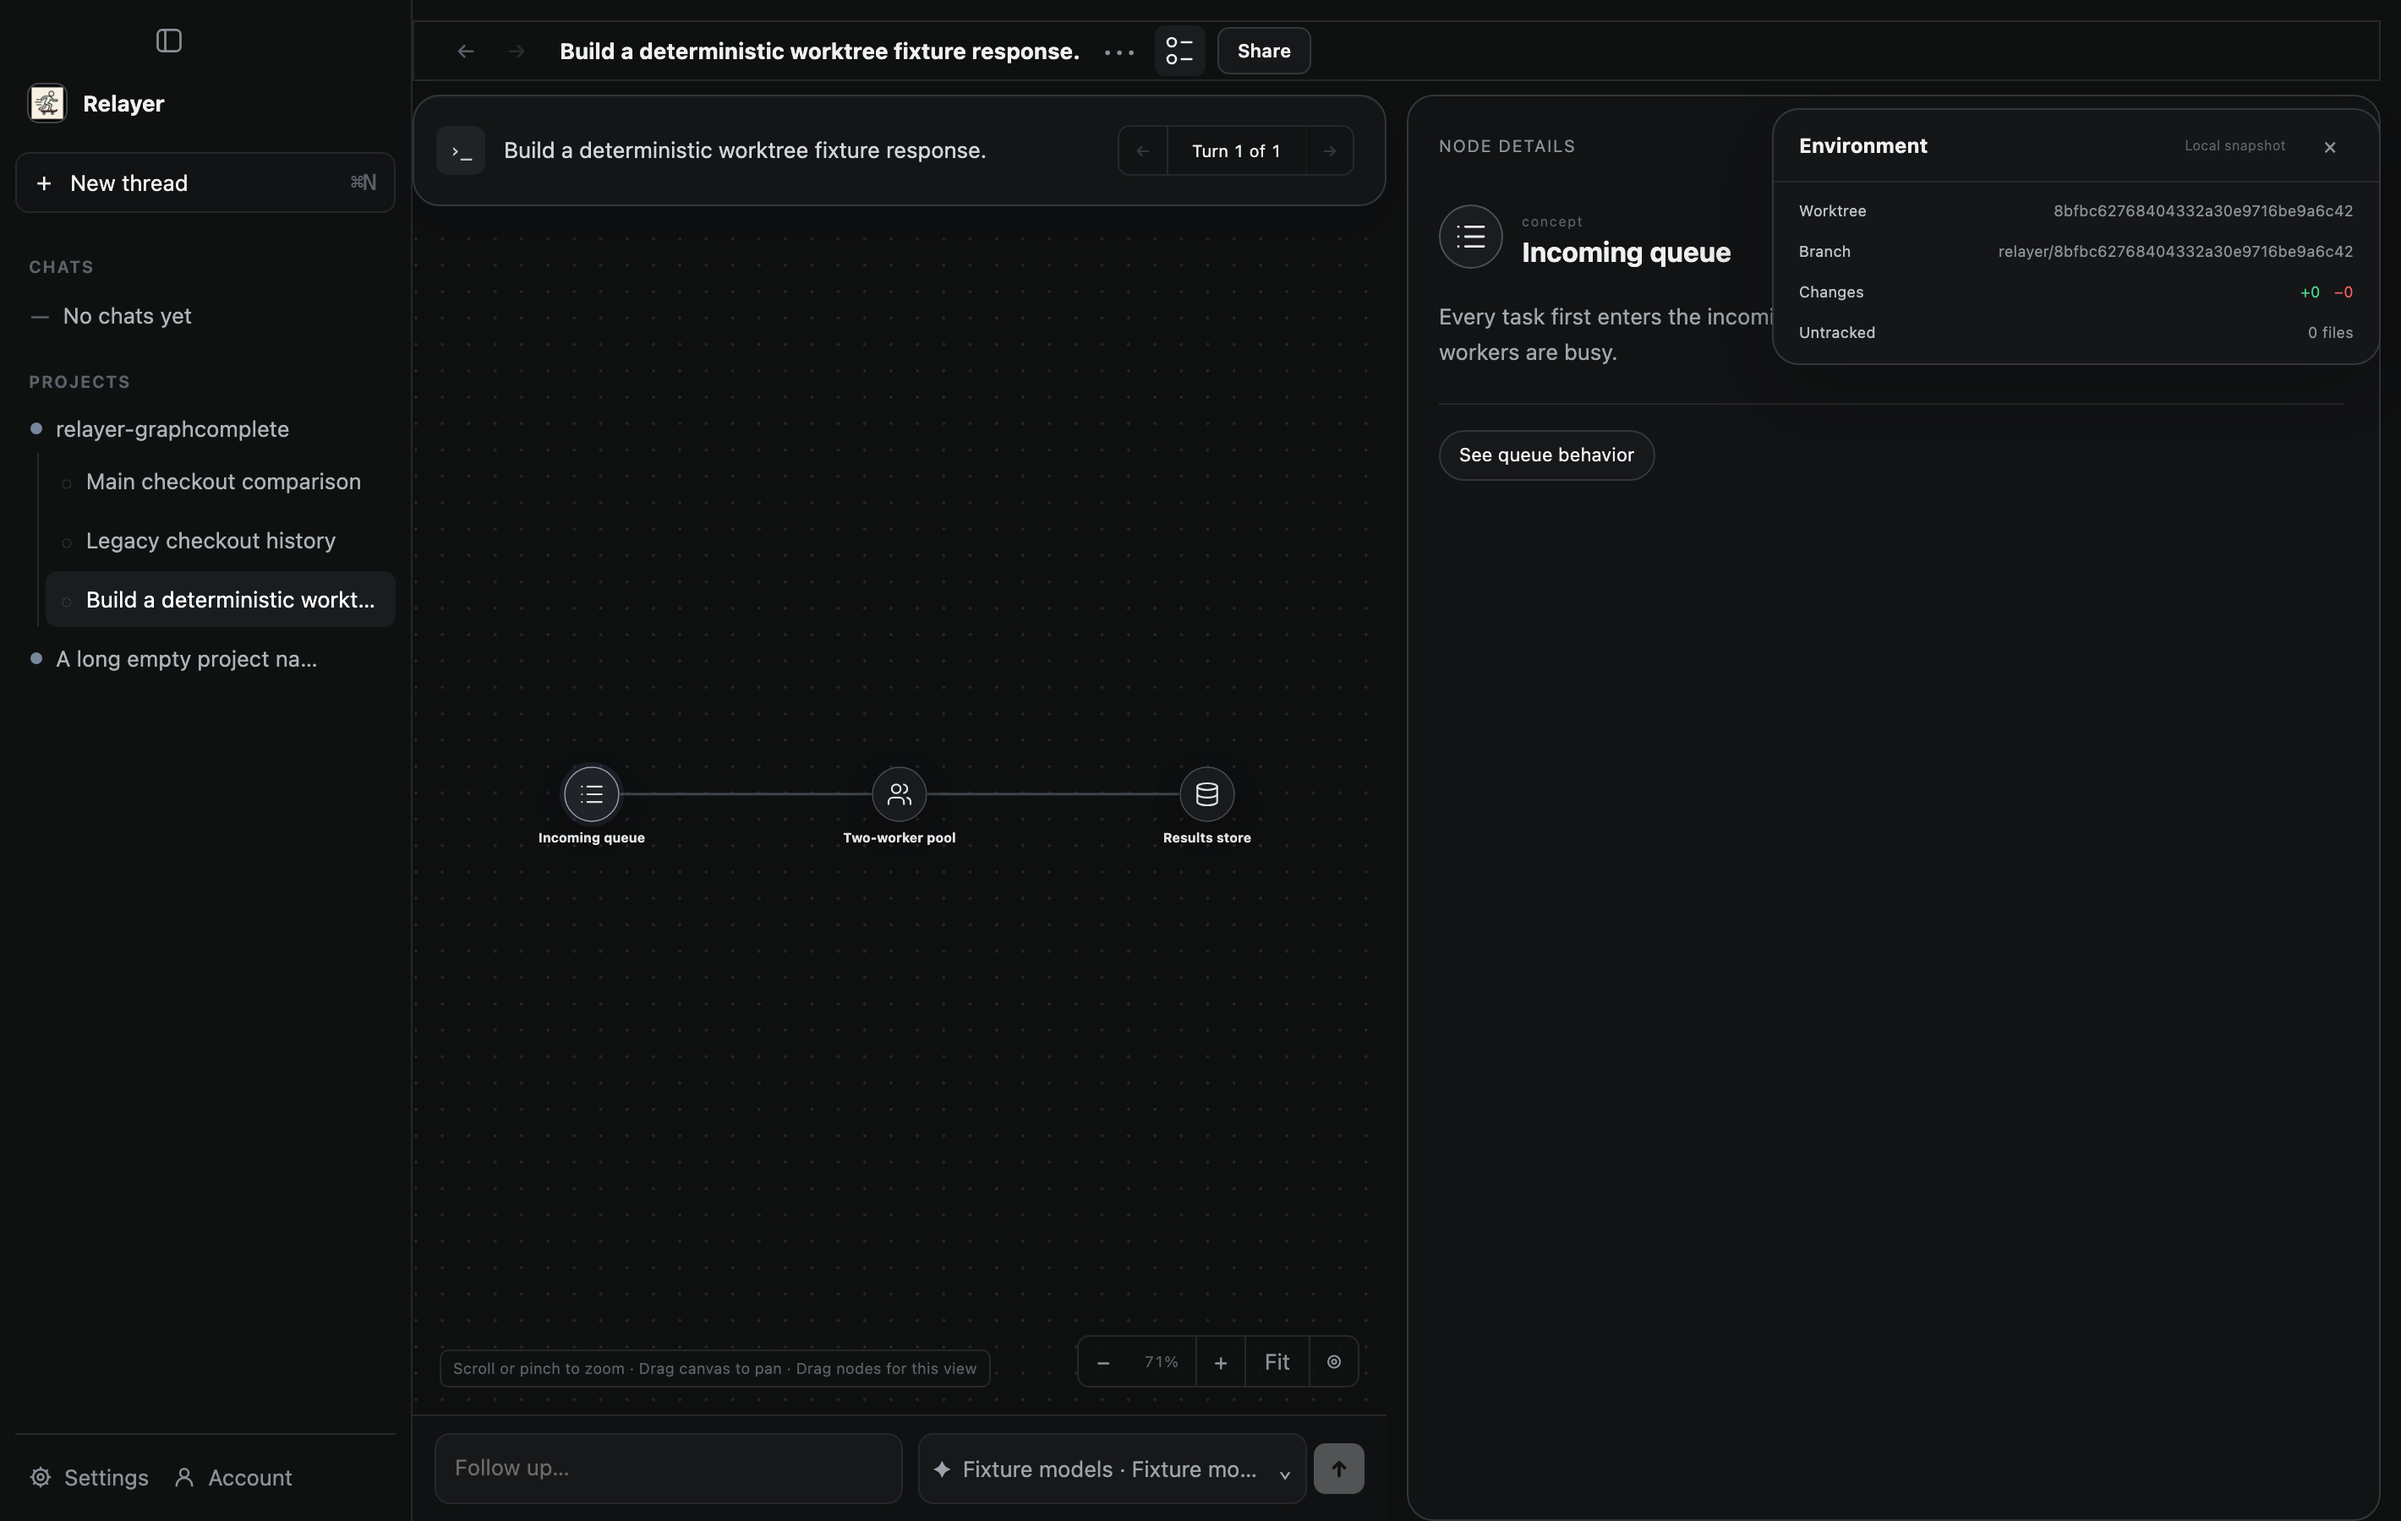
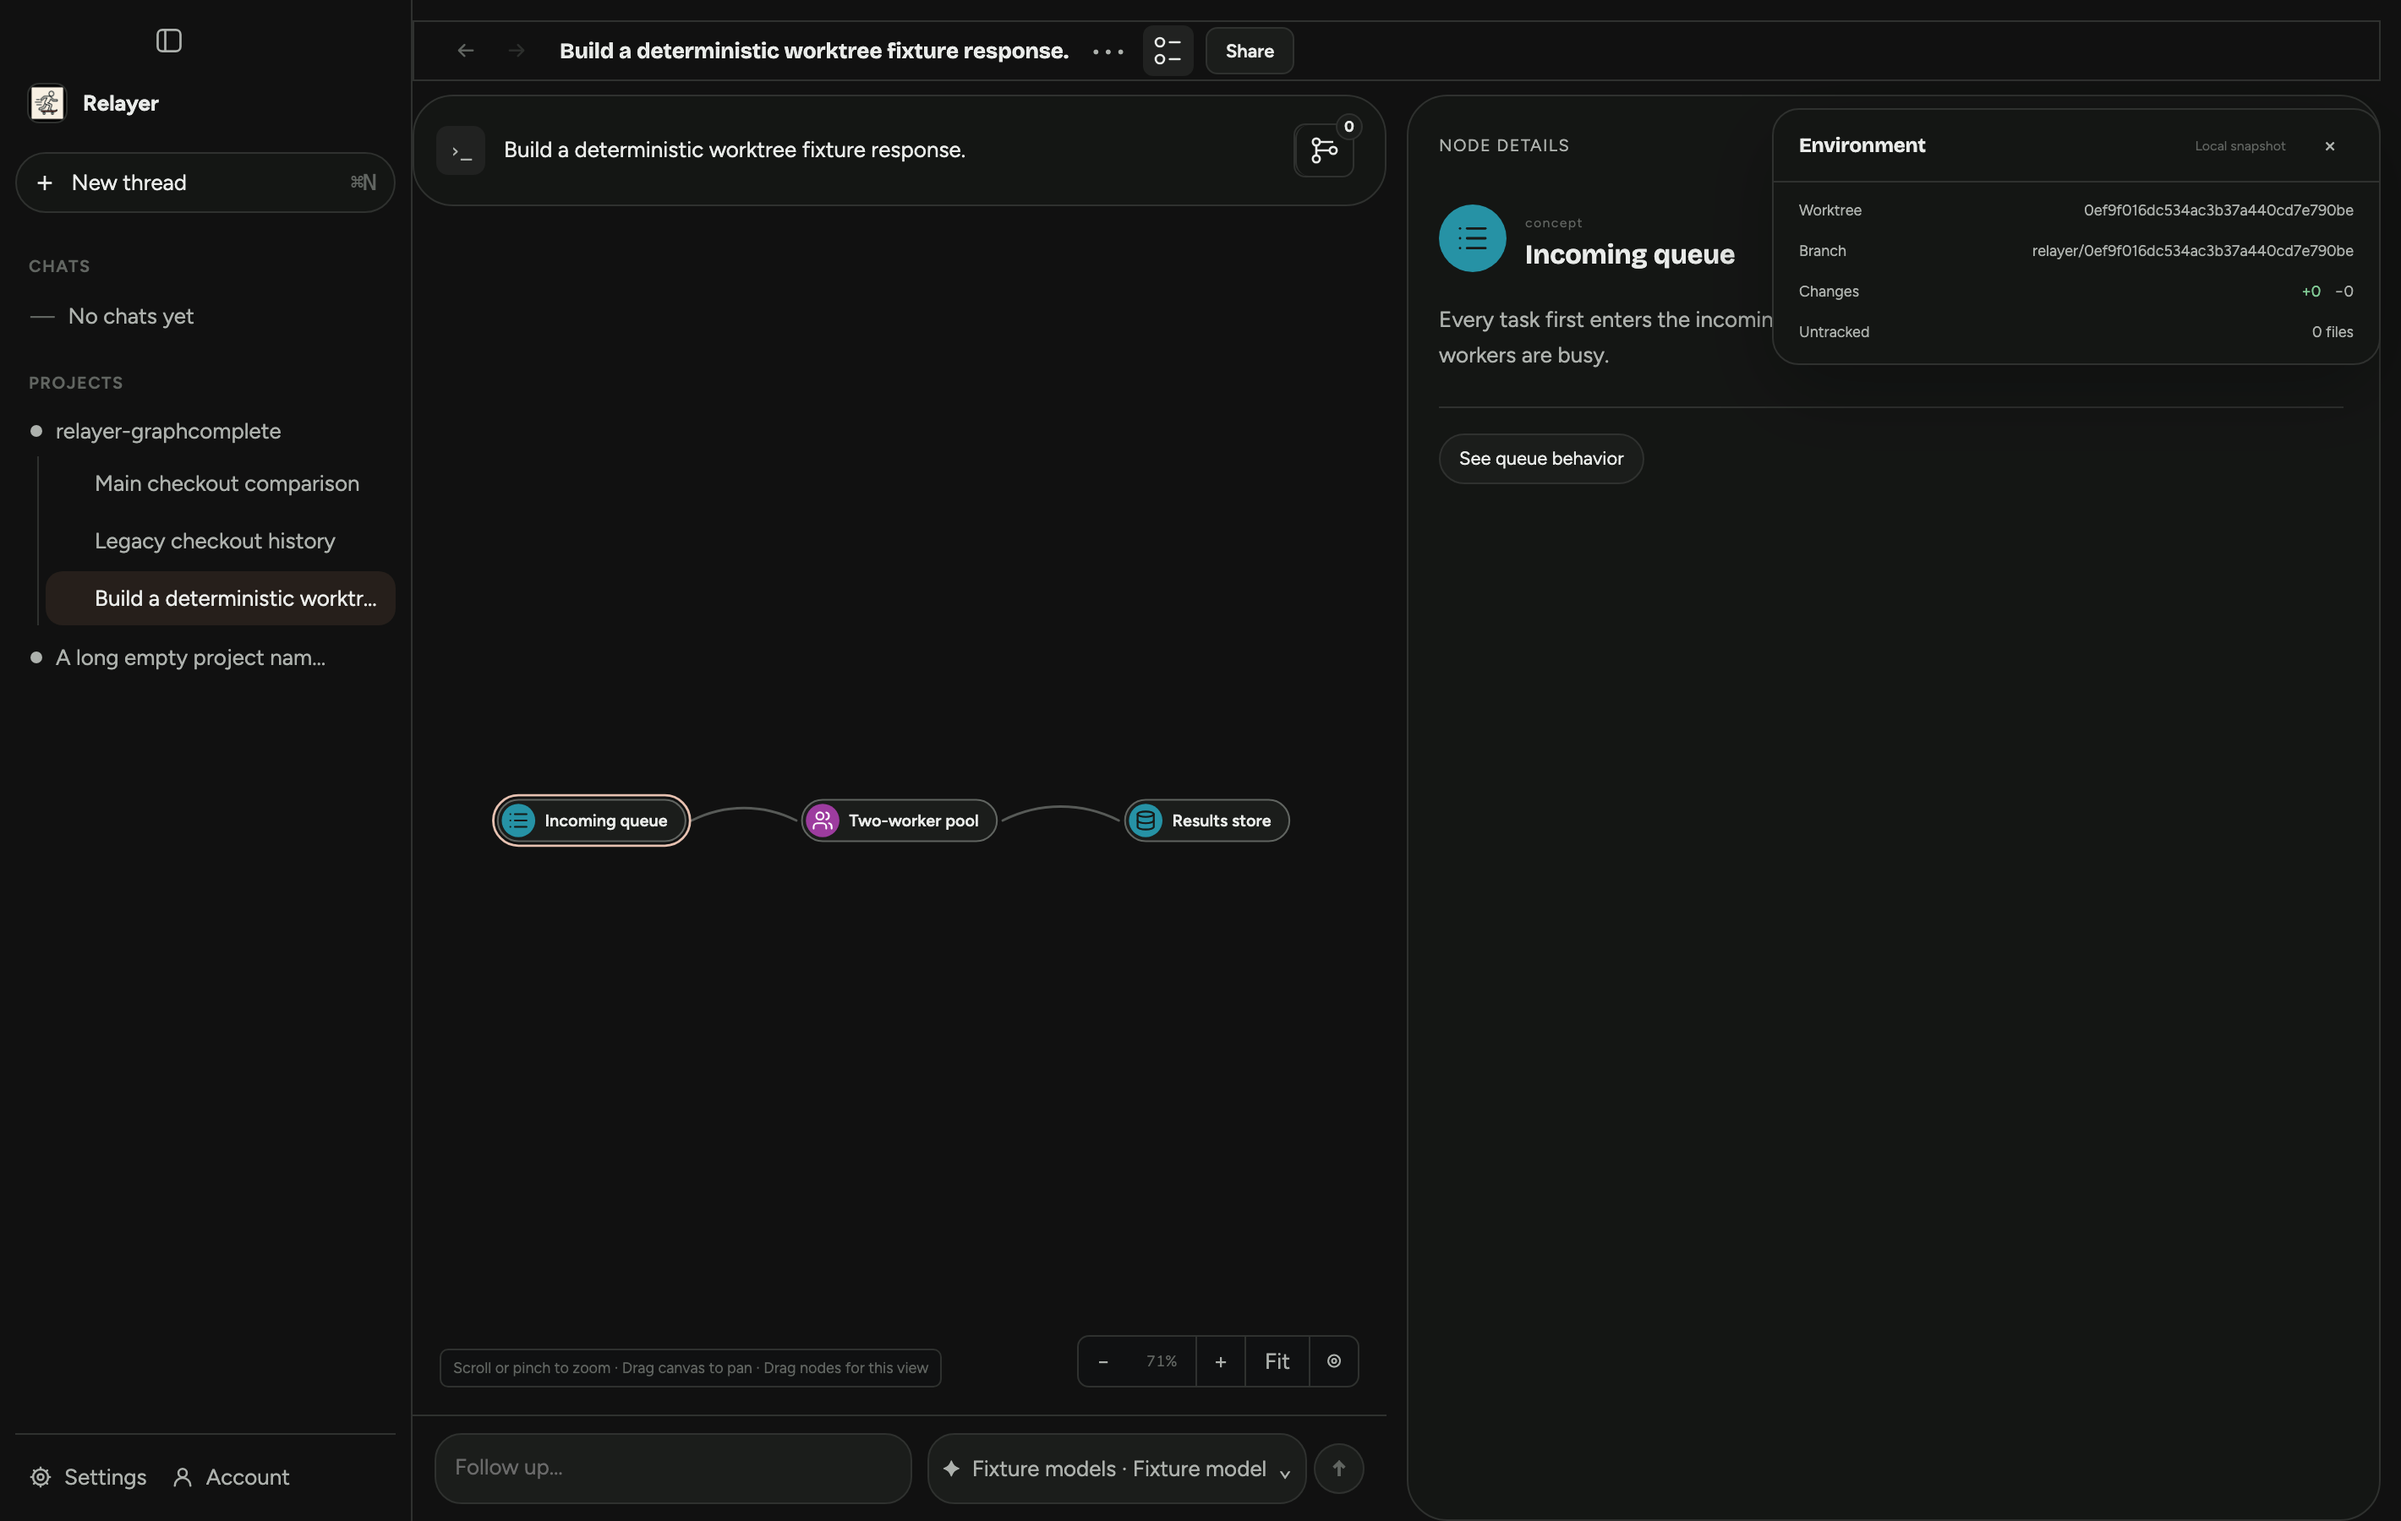
Record integrated worktree and renderer verification

diff --git a/docs/evidence/worktrees/README.md b/docs/evidence/worktrees/README.md
@@ -83,6 +83,16 @@ build outputs. Source was compiled against the current inputs; no external
 Ladybug/runtime artifact restoration or cache-hit proof is claimed. Cache reuse
 never substitutes for the fresh tests above.
 
+## Integration with current main
+
+PR #631 initially conflicted with main after the theme, agent-child lifecycle and readiness changes landed. The integration baseline is `3dc56dd9cff4bd1fd9c1faaf199ed195578a7224`. Conflict resolution keeps both System appearance and worktree IPC, Sticker × Cocoa and scoped Checkout styles, sidebar activity and exact thread scope columns, and all package scripts. The worktree migration is now `0040`; main's `0038` agent-child and `0039` readiness migrations retain their identities.
+
[1 lines of base64/hex data omitted]
+
+The first integrated full check passed all native/package/type/workspace gates and 3,320 Vitest tests, then correctly rejected two newly introduced current-source visual receipts. Their declared social-preview and follow-up-annotation workflows were rerun with zero paid inference. The original annotation baseline A-to-B comparison and real accepted/running backend state were preserved; both evidence tests now pass. Only artifact receipts/raw images changed. The complete outer `VITEST_MAX_WORKERS=2 npm run check` passed after those artifact repairs: 255 Vitest files / 3,322 tests passed, with 1 existing skipped file / 3 existing skipped tests; the explicitly enabled secret boundary passed 2 tests; Python passed 60 tests; formatting, Clippy, all Rust and crash suites, package/TypeScript/workspace checks, Ladybug receipts and PRD readability passed. The production build and both Electron proofs cover the same unchanged executable digest. Hosted CI and freshness remain pending.
+
[1 lines of base64/hex data omitted]
+
 ## PR handoff gate
 
 Open a main-targeting PR with a unique head commit and attach it to the task.
